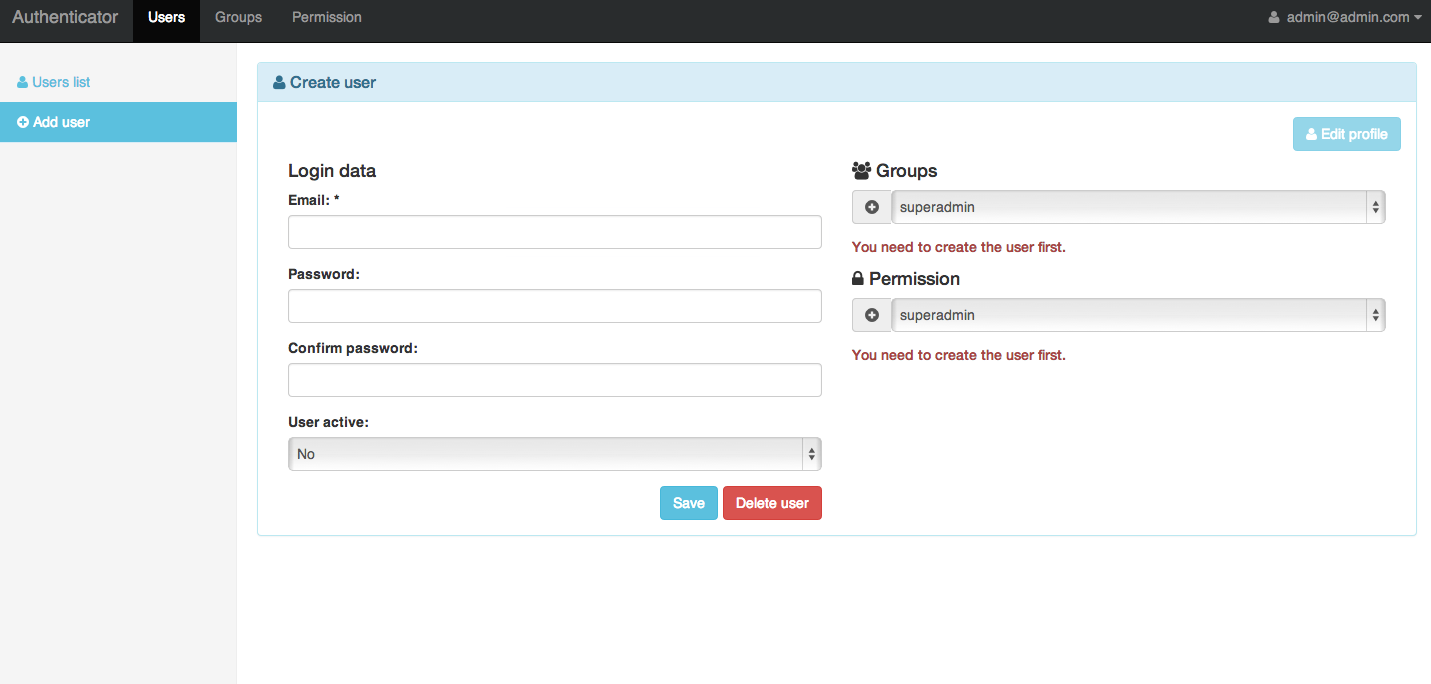
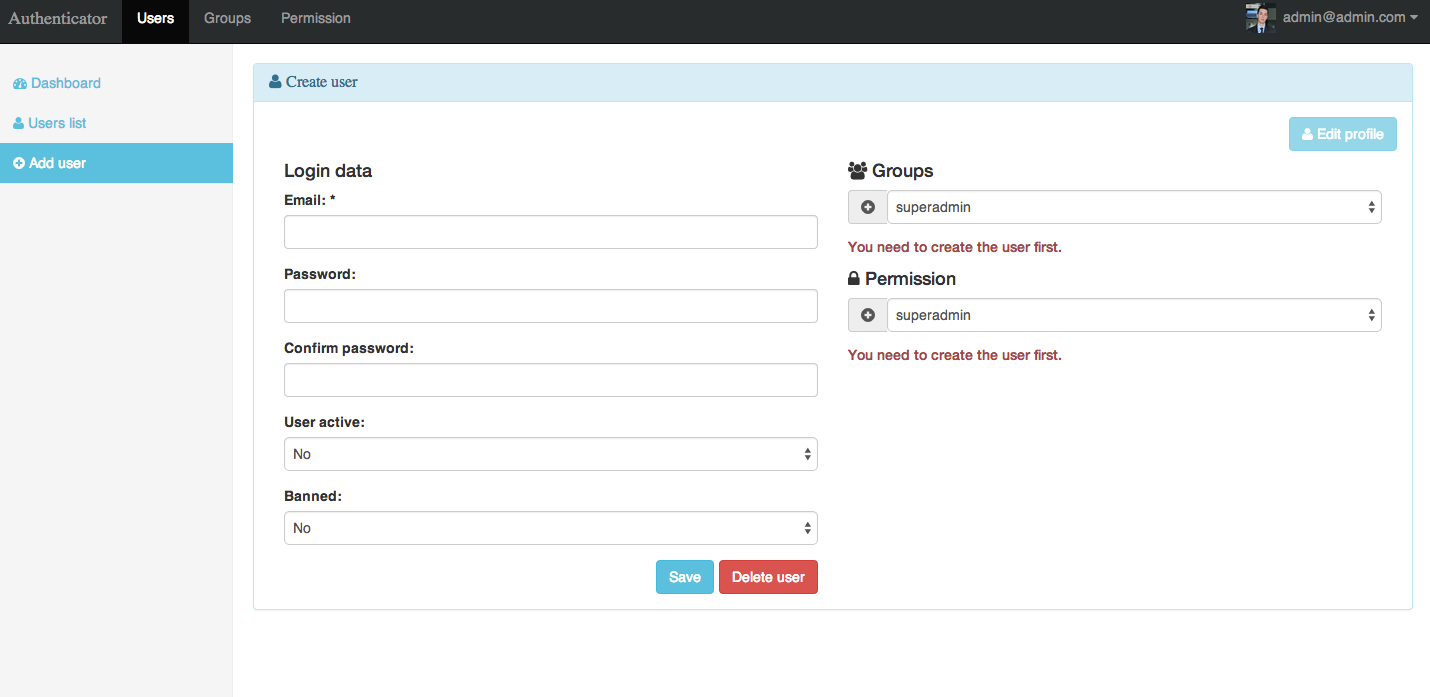
fix doc

diff --git a/src/views/admin/layouts/navbar.blade.php b/src/views/admin/layouts/navbar.blade.php
@@ -20,8 +20,11 @@
             <div class="navbar-nav nav navbar-right">
                 <li class="dropdown dropdown-user">
                     <a class="dropdown-toggle" data-toggle="dropdown" href="#" id="dropdown-profile">
+                        {{-- get the user avatar --}}
                         @if(isset($logged_user) && $logged_user->user_profile()->count())
                             <img src="{{$logged_user->user_profile()->first()->presenter()->avatar_src}}" width="30px">
+                        @else
+                            <img src="{{URL::asset('/packages/jacopo/laravel-authentication-acl/images/avatar.png')}}" width="30px">
                         @endif
                         <span id="nav-email">{{isset($logged_user) ? $logged_user->email : 'User'}}</span> <i class="fa fa-caret-down"></i>
                     </a>

diff --git a/src/config/way-form/config.php b/src/config/way-form/config.php
@@ -1,5 +1,10 @@
 <?php
-
+    /*
+      |--------------------------------------------------------------------------
+      | DO NOT EDIT THIS FILE UNLESS YOU KNOW WHAT YOU ARE DOING
+      |--------------------------------------------------------------------------
+      |
+      */
     return [
 
         /*

diff --git a/docs/index.md b/docs/index.md
@@ -1,38 +1,34 @@
 # Laravel Authentication ACL documentation #
 
-Descrizione del pacchetto pannello con acl basato su sentry2
-Link all'esempio
-fai sezione features
-fixa toc links
-adda nuove cose
-rileggi tutto
+Laravel Authentication ACL is a Laravel 4 package, based on <a href="https://github.com/cartalyst/sentry" target="_blank">sentry2</a>. <br/>
+This package is made with the purpose to help developer setting up
+a simple admin panel with an ACL using Laravel framework.
 
 ### Table of Contents ###
- 1. Requirements
- 2. Setup
- 3. Configuration
- 4. Usage
- 5. Advanced Configuration and API
+ 1. [Requirements](#requirements)
+ 2. [Setup](#setup)
+ 3. [Configuration](#configuration)
+ 4. [Usage](#usage)
+ 5. [Advanced Configuration and API](#advanced)
 
-## Requirements  ##
+## <a name="requirements">Requirements</a> ##
 
 To install this software you need:
 
   * Laravel framework version 4 or higher
   * Php 5.4+
 
-## Setup ##
+## <a name="setup">Setup</a> ##
 
 To install authentication follow this steps:
 
   1. Create an empty <a href="http://laravel.com/docs/quick" target="_blank">Laravel 4</a> installation if you don't have any.
 
   2. Add to your _composer.json_ require field the following lines:
-      "require": {
+      ```"require": {
         ...
-        "jacopo/library": "0.1.0"
-        "jacopo/authentication": "0.1.0"
-      },
+        "jacopo/authentication": "1.0.0"
+      },``
 
   3. Change the "minimum-stability" option of your _composer.json_ file to "dev" and add this line: `"prefer-stable" : true`
   This is needed because the package requires a "development" version of another package (this requirement will be changed in the next release)
@@ -42,41 +38,41 @@ To install authentication follow this steps:
   5. Now open the file _app/config/app.php_ and add to the 'providers' option the following line:
   'Jacopo\Authentication\AuthenticationServiceProvider',
 
-  6. Then run this command:
+  6. Then run this command to publish the configuration files:
   `php artisan authentication:prepare`
   Now you can find configuration files in _app/config/packages/jacopo/authentication_ folder.
   If you want to use a custom db(database) access configuration only for this package (while keeping other db connections for the rest of the application) edit the _app/config/packages/jacopo/authentication/database.php_ file.
 
-  7. Now you need to install the application, to do that run `php artisan authentication:install` command.
+  7. Now you need to install the application, to do that run the command: `php artisan authentication:install`.
 
   Congratulations! You have succesfully installed Laravel Authentication ACL package!
 
   Here is the main application links:
 
-  * http://url_of_your_application/login the client login page (after login it will redirect you to the home page)
+  * http://url_of_your_application/login the client login page (after logging in will redirect you to the home page)
   [ username:<b>admin@admin.com</b> password:<b>password</b> ]
-  * http://url_of_your_application/admin/login the admin login page (after login it will redirect you to the admin panel) [ username:<b>admin@admin.com</b> password:<b>password</b> ]
+  * http://url_of_your_application/admin/login the admin login page (after logging in will redirect you to the admin panel) [ username:<b>admin@admin.com</b> password:<b>password</b> ]
   * http://url_of_your_application/user/signup the new user signup form (to register a new user)
-* http://url_of_your_application/user/logout logout page
+* http://url_of_your_application/user/logout the logout page
 
 ### Note on sending emails ###
-Keep in mind this software will send various notification emails, dont't forget to edit you laravel app/config/mail.php file.
+Keep in mind this software will send various notification emails, dont't forget to edit your _laravel app/config/mail.php_ file.
 
-## Configuration ##
+## <a name="configuration">Configuration</a> ##
 
 After installing the package you can find all his configuration files under the folder: _app/config/packages/jacopo/authentication_. All the files are self documented, here is a brief overview of each configuration file:
 
   * _sentry/config.php_: the low level authentication configuration part, it helps you handle session cookie's name,login throttling and custom password hashing
   * _way-form/config.php_: system configuration files for form handling (do not edit)
   * _config.php_: basic configuration
-  * _menu.php_: to create dynamic admin menu with arbitrary permissions
+  * _menu.php_: to create __dynamic admin menu__ with arbitrary permissions
   * _database.php_: custom database configuration file
   * _permission.php_: general permissions configuration
 
-## Usage ##
+## <a name="usage">Usage</a> ##
 You have four main link to access the application.
 
-The first is the user login page available at: "http://url_of_your_application/login".
+The first is the user login page available at: http://url_of_your_application/login.
 With the user login page (after login) you will be redirected to the root application folder: "/"
 The second main link is the admin login page, available at http://url_of_your_application/admin/login.
 Here is the sceenshoot of the admin login page:
@@ -97,25 +93,30 @@ After filling the form you can also create/edit a user profile with the _edit pr
 
 <a href="/images/edit_profile.png" target="_blank" ><img src="images/edit_profile.png" class="max-100"></a>
 
+In the profile form you can setup an avatar for the user and also add custom profile fields.
+When you add a new custom field it will be added in all the user's profile form.
+<br/> __Attention:__ to add custom profile field an user need the permission set in the _permission.php_ configuration file.
+
 The listing/filtering and editing of groups and permission respect the same structure as for the users (just use the links on the main menu).
 
-The third link is the user signup form available at: "http://url_of_your_application/user/signup":
+The third link is the user signup form available at: http://url_of_your_application/user/signup:
 
 <a href="/images/signup.png" target="_blank" ><img src="images/signup.png" class="max-100"></a>
 
-The last link is the logout link available at: "http://url_of_your_application/user/logout"
+The last link is the logout link available at: http://url_of_your_application/user/logout
 
 ### Permissions handling ###
 
-  Every user belongs to a certain number of groups(you can edit them in the user page). You can also define custom permission for user and groups. When the software search for permissions it will join the permission that are associated to the user, with the one of all the groups that belongs to the user; if the permissions to check for are in that list the check will pass otherwise it won't pass.
+  Every user belongs to a certain number of groups(you can edit them in the user page). You can also define custom permission for user and groups. When the software search for permissions it will join the permission that are associated to the user, with the one of all the groups that belongs to the user; if the permissions to check for is in that list the check will pass otherwise it won't pass.
 
-## Advanced configuration and API ##
+## <a name="advanced">Advanced configuration and API</a> ##
 
 By installing the package you have two helper classes available anywhere in your application:
 
-* authentication : you can obtain this class with the following code: <code><?php $authentication = \App::make('authentication'); ?></code>
+* authentication : you can obtain this class with the following code: ``<?php $authentication = \App::make('authenticator'); ?>``
                     The class have the following methods:
-                    <code>
+
+                    `
                     /**
                     * Force authentication on a user
                     *
@@ -168,10 +169,11 @@ By installing the package you have two helper classes available anywhere in your
                     * @return mixed
                     */
                     public function getLoggedUser();
-                    </code>
+                    `
 
 You can find the user class in the file: _vendor/jacopo/authentication/src/Jacopo/Authentication/Models/User.php_
-* authentication_helper : you can obtain this class with the following code: <code><?php $authentication = \App::make('authentication_helper'); ?></code>
+* authentication_helper : you can obtain this class with the following code: `<?php $authentication = \App::make('authentication_helper'); ?>`
+
                     The class have the following methods:
                     /**
                     * Check if the current user is logged in and has any of the
@@ -179,11 +181,12 @@ You can find the user class in the file: _vendor/jacopo/authentication/src/Jacop
                     * @param array $permissions contain strings with the permissions name
                     * @return boolean
                     */
-                    public function hasPermission(array $permissions);
+                    public function hasPermission(array $permissions);`
+
 
 ### Blocking editing of a user/group or permission for the admin ui ###
-In case you want to block the editing of a _user/group/permission_ from the admin ui you need to open any dbms editor (like phpmyadmin) and go to the relative row in the corrisponding table associated _(users,groups,permission)_ and then set the flag of the column protected to "1".
+In case you want to block the editing of a _user/group/permission_ from the admin ui you need to open any dbms editor (like phpmyadmin) and go to the relative row in the corrisponding table associated _(users,groups,permission)_ and then set the flag of the column "protected" to "1".
 
 ### How to run all tests ###
 To run all the tests you need <a href="http://phpunit.de/getting-started.html" target="_blank">phpunit</a> and <a href="https://sqlite.org/" target="_blank">sqlite3</a> installed on your system.
-Then go in _vendor/jacopo/authentication_ folder and run the command: `phpunit`
+Then go in _vendor/jacopo/authentication_ folder and run the command: `phpunit`.

diff --git a/README.md b/README.md
@@ -1,4 +1,8 @@
 laravel-authentication-acl
 ==========================
 
-Laravel authentication and ACL package based on sentry
+Laravel Authentication ACL is a Laravel 4 package, based on <a href="https://github.com/cartalyst/sentry" target="_blank">sentry2</a>. <br/>
+This package is made with the purpose to help developer setting up
+a simple admin panel with an ACL using Laravel framework.
+
+you can see the full documentation [here](docs/index.md)
